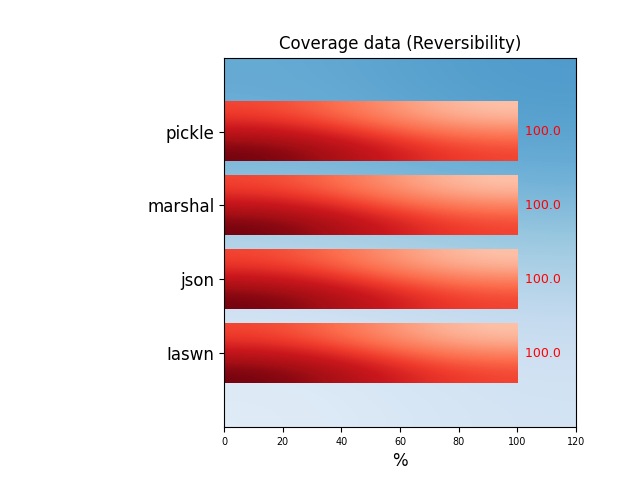
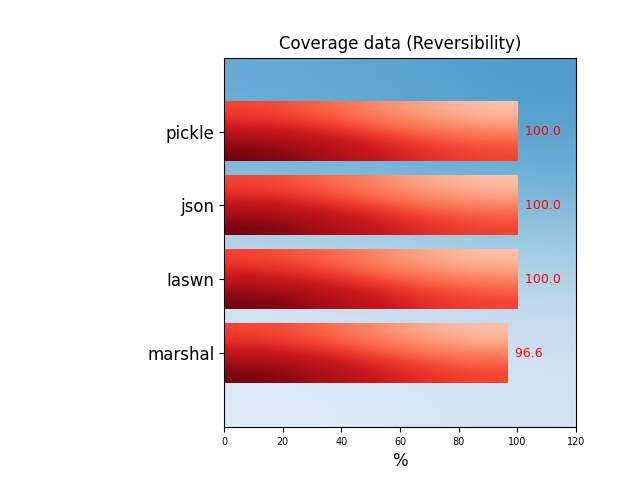
task-390
Fixed issue #54: demonstration reports' main file starts with the graphs.

    * Fixed issue #54: demonstration reports' main file starts with the graphs.
    * updated demonstration reports
    * create a new report shortcut in REPORT_SHORTCUTS, namely
      'create_demonstration_report'
    * updated create_demonstration_reports (now version 3):
      in order to use the new report shortcut
      'create_demonstration_report' and to place graphs at
      the beginning of the report
    * minor improvements in create_demonstration_reports.sh:
      better messages, better version name

modified:   ROADMAP.md
modified:   create_demonstration_reports.sh
modified:   demonstration_reports/1/demonstration_report.md
modified:   demonstration_reports/1/report.txt
modified:   demonstration_reports/1/report3.png
modified:   demonstration_reports/1/report4.png
modified:   demonstration_reports/2/demonstration_report.md
modified:   demonstration_reports/2/report.txt
modified:   demonstration_reports/2/report3.png
modified:   demonstration_reports/2/report4.png
modified:   demonstration_reports/3/demonstration_report.md
modified:   demonstration_reports/3/report.txt
modified:   wisteria/globs.py

diff --git a/wisteria/globs.py b/wisteria/globs.py
@@ -245,6 +245,7 @@ REPORT_SHORTCUTS = {
     "laconic": "C;graphs;",
     "minimal": "C2c;graphs;",
     "none": "",
+    "create_demonstration_report": "graphs;titles;A0;B1b;C1a;C1b;C2a;C2b;C2c",
     }
 
 # value: None or rich.console.Console()

diff --git a/demonstration_reports/2/demonstration_report.md b/demonstration_reports/2/demonstration_report.md
@@ -1,17 +1,21 @@
 ```
+(WARNINGID010) Anomaly: too many absurd values detected in 'mem usage' series;'marshal' x 'str(long)'. 
+(A0) Command Line Arguments
+
+bin/wisteria --cmp="all" --report="create_demonstration_report" --filter="data:oktrans_only" --output="console;reportfile/w=demonstration_reports/2/report.txt" --exportreport="md=demonstration_report.md"
+
 (B1b) Full Details: Serializers
 ┏━━━━━━━━━━━━━━━━━━━━━━━━━━━━━━┳━━━━━━━━━━━━━┳━━━━━━━━━━━━━┳━━━━━━━━━━━━━━━┳━━━━━━━━━━━━━┳━━━━━━━━━━━━━┳━━━━━━━━━━━━━━━━━━┳━━━━━━━━━━━━━━┓
 ┃ Serializer                   ┃ Encod. Ok ? ┃ Σ Encoded   ┃ Σ Encoded     ┃ Decod. Ok ? ┃ Σ Decoded   ┃ Reversibility ?  ┃ Σ memory     ┃
 ┃                              ┃ (Max=29)    ┃ Time        ┃ Str. Length   ┃ (Max=29)    ┃ Time        ┃ (Max=29)         ┃              ┃
 ┃                              ┃             ┃ (seconds)   ┃ (characters)  ┃             ┃ (seconds)   ┃                  ┃              ┃
 ┡━━━━━━━━━━━━━━━━━━━━━━━━━━━━━━╇━━━━━━━━━━━━━╇━━━━━━━━━━━━━╇━━━━━━━━━━━━━━━╇━━━━━━━━━━━━━╇━━━━━━━━━━━━━╇━━━━━━━━━━━━━━━━━━╇━━━━━━━━━━━━━━┩
-│ Iaswn                        │ 29          │ 0.000464    │ 9460          │ 29          │ 0.000510    │ 29 (100.00%)     │ 0 byte       │
+│ Iaswn                        │ 29          │ 0.000402    │ 9460          │ 29          │ 0.000443    │ 29 (100.00%)     │ 0 byte       │
 │                              │ (100.00%)   │             │               │ (100.00%)   │             │                  │              │
-│ json                         │ 29          │ 0.000240    │ 9483          │ 29          │ 0.000210    │ 29 (100.00%)     │ 0 byte       │
+│ json                         │ 29          │ 0.000206    │ 9483          │ 29          │ 0.000190    │ 29 (100.00%)     │ 0 byte       │
 │                              │ (100.00%)   │             │               │ (100.00%)   │             │                  │              │
-│ marshal                      │ 29          │ 0.000052    │ 9399          │ 29          │ 0.000045    │ 29 (100.00%)     │ 0 byte       │
-│                              │ (100.00%)   │             │               │ (100.00%)   │             │                  │              │
-│ pickle                       │ 29          │ 0.000078    │ 9637          │ 29          │ 0.000063    │ 29 (100.00%)     │ 0 byte       │
+│ marshal                      │ 28 (96.55%) │ 0.000037    │ 394           │ 28 (96.55%) │ 0.000036    │ 28 (96.55%)      │ 0 byte       │
+│ pickle                       │ 29          │ 0.000069    │ 9637          │ 29          │ 0.000062    │ 29 (100.00%)     │ 0 byte       │
 │                              │ (100.00%)   │             │               │ (100.00%)   │             │                  │              │
 └──────────────────────────────┴─────────────┴─────────────┴───────────────┴─────────────┴─────────────┴──────────────────┴──────────────┘
 
@@ -23,9 +27,9 @@ int_0xffffffffffffffffffffffffffffffff, int_1, io.string(empty), list, list(+sub
 json: According to the tests carried out on all data, json can handle 29 data objects among 29 (100.00%), namely bool/false, bool/true, demonstration_dataobj, dict(keys/str), dict(keys/str+subdicts), float, 
 int, int_-0xffff, int_-0xffffffff, int_-0xffffffffffffffff, int_-0xffffffffffffffffffffffffffffffff, int_-1, int_0, int_0xffff, int_0xffffffff, int_0xffffffffffffffff, int_0xffffffffffffffffffffffffffffffff,
 int_1, io.string(empty), list, list(+sublists), list(empty), metaclass, none, str, str(empty), str(long), str(non ascii characters) and time(time.time) .
-marshal: According to the tests carried out on all data, marshal can handle 29 data objects among 29 (100.00%), namely bool/false, bool/true, demonstration_dataobj, dict(keys/str), dict(keys/str+subdicts), 
+marshal: According to the tests carried out on all data, marshal can handle 28 data objects among 29 (96.55%), namely bool/false, bool/true, demonstration_dataobj, dict(keys/str), dict(keys/str+subdicts), 
 float, int, int_-0xffff, int_-0xffffffff, int_-0xffffffffffffffff, int_-0xffffffffffffffffffffffffffffffff, int_-1, int_0, int_0xffff, int_0xffffffff, int_0xffffffffffffffff, 
-int_0xffffffffffffffffffffffffffffffff, int_1, io.string(empty), list, list(+sublists), list(empty), metaclass, none, str, str(empty), str(long), str(non ascii characters) and time(time.time) .
+int_0xffffffffffffffffffffffffffffffff, int_1, io.string(empty), list, list(+sublists), list(empty), metaclass, none, str, str(empty), str(non ascii characters) and time(time.time) .
 pickle: According to the tests carried out on all data, pickle can handle 29 data objects among 29 (100.00%), namely bool/false, bool/true, demonstration_dataobj, dict(keys/str), dict(keys/str+subdicts), 
 float, int, int_-0xffff, int_-0xffffffff, int_-0xffffffffffffffff, int_-0xffffffffffffffffffffffffffffffff, int_-1, int_0, int_0xffff, int_0xffffffff, int_0xffffffffffffffff, 
 int_0xffffffffffffffffffffffffffffffff, int_1, io.string(empty), list, list(+sublists), list(empty), metaclass, none, str, str(empty), str(long), str(non ascii characters) and time(time.time) .
@@ -44,10 +48,10 @@ pickle: According to the tests carried out on all data, there's no data object a
 ┃                           ┃ (characters)     ┃                  ┃ (Max=29)         ┃              ┃
 ┡━━━━━━━━━━━━━━━━━━━━━━━━━━━╇━━━━━━━━━━━━━━━━━━╇━━━━━━━━━━━━━━━━━━╇━━━━━━━━━━━━━━━━━━╇━━━━━━━━━━━━━━┩
 │ -                         │ -                │ -                │ -                │              │
-│ Iaswn                     │ 9460             │ 0.000974         │ 29 (100.00%)     │ 0 byte       │
-│ json                      │ 9483             │ 0.000450         │ 29 (100.00%)     │ 0 byte       │
-│ marshal                   │ 9399             │ 0.000097         │ 29 (100.00%)     │ 0 byte       │
-│ pickle                    │ 9637             │ 0.000141         │ 29 (100.00%)     │ 0 byte       │
+│ Iaswn                     │ 9460             │ 0.000845         │ 29 (100.00%)     │ 0 byte       │
+│ json                      │ 9483             │ 0.000396         │ 29 (100.00%)     │ 0 byte       │
+│ marshal                   │ 394              │ 0.000074         │ 28 (96.55%)      │ 0 byte       │
+│ pickle                    │ 9637             │ 0.000131         │ 29 (100.00%)     │ 0 byte       │
 └───────────────────────────┴──────────────────┴──────────────────┴──────────────────┴──────────────┘
 
 (C2b) Conclusion: Overall Score Based on 4 Comparisons Points (Σ Encoded Str. Length/Σ Encod.+Decod. Time/Coverage Rate/Σ memory)
@@ -55,17 +59,17 @@ pickle: According to the tests carried out on all data, there's no data object a
 ┃ Serializer                ┃ Overall Score ┃
 ┡━━━━━━━━━━━━━━━━━━━━━━━━━━━╇━━━━━━━━━━━━━━━┩
 │ -                         │ -             │
-│ Iaswn                     │ 12            │
-│ json                      │ 10            │
-│ marshal                   │ 12            │
+│ Iaswn                     │ 11            │
+│ json                      │ 9             │
+│ marshal                   │ 14            │
 │ pickle                    │ 6             │
 └───────────────────────────┴───────────────┘
 
 (C2c) Conclusion
-According to the tests carried out on all data, marshal is the quickest to encode/decode, marshal produces the shortest strings, all serializers are equal when it comes to data coverage and all serializers 
-are equal when it comes to memory consumption. Iaswn and marshal are ranked #1 among 4 serializers, according to the overall scores (¹).
-On the contrary, Iaswn is the slowest to encode/decode, pickle produces the longest strings, all serializers are equal when it comes to data coverage and all serializers are equal when it comes to memory 
-consumption. pickle is ranked #4 among 4 serializers, according to the overall scores (¹).
+According to the tests carried out on all data, marshal is the quickest to encode/decode, marshal produces the shortest strings, marshal has the best coverage and all serializers are equal when it comes to 
+memory consumption. marshal is ranked #1 among 4 serializers, according to the overall scores (¹).
+On the contrary, Iaswn is the slowest to encode/decode, pickle produces the longest strings, pickle - ex aequo with Iaswn and json - has the worst coverage and all serializers are equal when it comes to 
+memory consumption. pickle is ranked #4 among 4 serializers, according to the overall scores (¹).
 
 - notes -
 [¹] a rank based on 4 comparisons points: Σ encoded str./Σ encod.+decod. time/Coverage Rate/Σ memory

diff --git a/demonstration_reports/1/demonstration_report.md b/demonstration_reports/1/demonstration_report.md
@@ -1,17 +1,21 @@
 ```
+(WARNINGID010) Anomaly: too many absurd values detected in 'mem usage' series;'marshal' x 'str(long)'. 
+(A0) Command Line Arguments
+
+bin/wisteria --cmp="pickle" --report="create_demonstration_report" --filter="data:oktrans_only" --output="console;reportfile/w=demonstration_reports/1/report.txt" --exportreport="md=demonstration_report.md"
+
 (B1b) Full Details: Serializers
 ┏━━━━━━━━━━━━━━━━━━━━━━━━━━━━━━┳━━━━━━━━━━━━━┳━━━━━━━━━━━━━┳━━━━━━━━━━━━━━━┳━━━━━━━━━━━━━┳━━━━━━━━━━━━━┳━━━━━━━━━━━━━━━━━━┳━━━━━━━━━━━━━━┓
 ┃ Serializer                   ┃ Encod. Ok ? ┃ Σ Encoded   ┃ Σ Encoded     ┃ Decod. Ok ? ┃ Σ Decoded   ┃ Reversibility ?  ┃ Σ memory     ┃
 ┃                              ┃ (Max=29)    ┃ Time        ┃ Str. Length   ┃ (Max=29)    ┃ Time        ┃ (Max=29)         ┃              ┃
 ┃                              ┃             ┃ (seconds)   ┃ (characters)  ┃             ┃ (seconds)   ┃                  ┃              ┃
 ┡━━━━━━━━━━━━━━━━━━━━━━━━━━━━━━╇━━━━━━━━━━━━━╇━━━━━━━━━━━━━╇━━━━━━━━━━━━━━━╇━━━━━━━━━━━━━╇━━━━━━━━━━━━━╇━━━━━━━━━━━━━━━━━━╇━━━━━━━━━━━━━━┩
-│ Iaswn                        │ 29          │ 0.000458    │ 9460          │ 29          │ 0.000470    │ 29 (100.00%)     │ 0 byte       │
+│ Iaswn                        │ 29          │ 0.000442    │ 9460          │ 29          │ 0.000472    │ 29 (100.00%)     │ 0 byte       │
 │                              │ (100.00%)   │             │               │ (100.00%)   │             │                  │              │
-│ json                         │ 29          │ 0.000238    │ 9483          │ 29          │ 0.000256    │ 29 (100.00%)     │ 0 byte       │
+│ json                         │ 29          │ 0.000220    │ 9483          │ 29          │ 0.000193    │ 29 (100.00%)     │ 0 byte       │
 │                              │ (100.00%)   │             │               │ (100.00%)   │             │                  │              │
-│ marshal                      │ 29          │ 0.000047    │ 9399          │ 29          │ 0.000042    │ 29 (100.00%)     │ 0 byte       │
-│                              │ (100.00%)   │             │               │ (100.00%)   │             │                  │              │
-│ pickle                       │ 29          │ 0.000078    │ 9637          │ 29          │ 0.000066    │ 29 (100.00%)     │ 0 byte       │
+│ marshal                      │ 28 (96.55%) │ 0.000037    │ 394           │ 28 (96.55%) │ 0.000036    │ 28 (96.55%)      │ 0 byte       │
+│ pickle                       │ 29          │ 0.000072    │ 9637          │ 29          │ 0.000062    │ 29 (100.00%)     │ 0 byte       │
 │                              │ (100.00%)   │             │               │ (100.00%)   │             │                  │              │
 └──────────────────────────────┴─────────────┴─────────────┴───────────────┴─────────────┴─────────────┴──────────────────┴──────────────┘
 
@@ -28,9 +32,9 @@ int_0xffffffffffffffffffffffffffffffff, int_1, io.string(empty), list, list(+sub
 json: According to the tests carried out on all data, json can handle 29 data objects among 29 (100.00%), namely bool/false, bool/true, demonstration_dataobj, dict(keys/str), dict(keys/str+subdicts), float, 
 int, int_-0xffff, int_-0xffffffff, int_-0xffffffffffffffff, int_-0xffffffffffffffffffffffffffffffff, int_-1, int_0, int_0xffff, int_0xffffffff, int_0xffffffffffffffff, int_0xffffffffffffffffffffffffffffffff,
 int_1, io.string(empty), list, list(+sublists), list(empty), metaclass, none, str, str(empty), str(long), str(non ascii characters) and time(time.time) .
-marshal: According to the tests carried out on all data, marshal can handle 29 data objects among 29 (100.00%), namely bool/false, bool/true, demonstration_dataobj, dict(keys/str), dict(keys/str+subdicts), 
+marshal: According to the tests carried out on all data, marshal can handle 28 data objects among 29 (96.55%), namely bool/false, bool/true, demonstration_dataobj, dict(keys/str), dict(keys/str+subdicts), 
 float, int, int_-0xffff, int_-0xffffffff, int_-0xffffffffffffffff, int_-0xffffffffffffffffffffffffffffffff, int_-1, int_0, int_0xffff, int_0xffffffff, int_0xffffffffffffffff, 
-int_0xffffffffffffffffffffffffffffffff, int_1, io.string(empty), list, list(+sublists), list(empty), metaclass, none, str, str(empty), str(long), str(non ascii characters) and time(time.time) .
+int_0xffffffffffffffffffffffffffffffff, int_1, io.string(empty), list, list(+sublists), list(empty), metaclass, none, str, str(empty), str(non ascii characters) and time(time.time) .
 
 (C1b) Conclusion: Data Objects NOT Handled by the Serializer(s)
 
@@ -47,11 +51,11 @@ marshal: According to the tests carried out on all data, there's no data object 
 ┃                           ┃ Length           ┃ Time (seconds)   ┃ (Coverage Rate)  ┃              ┃
 ┃                           ┃ (characters)     ┃                  ┃ (Max=29)         ┃              ┃
 ┡━━━━━━━━━━━━━━━━━━━━━━━━━━━╇━━━━━━━━━━━━━━━━━━╇━━━━━━━━━━━━━━━━━━╇━━━━━━━━━━━━━━━━━━╇━━━━━━━━━━━━━━┩
-│ pickle                    │ 9637             │ 0.000144         │ 29 (100.00%)     │ 0 byte       │
+│ pickle                    │ 9637             │ 0.000134         │ 29 (100.00%)     │ 0 byte       │
 │ -                         │ -                │ -                │ -                │              │
-│ Iaswn                     │ 9460             │ 0.000928         │ 29 (100.00%)     │ 0 byte       │
-│ json                      │ 9483             │ 0.000494         │ 29 (100.00%)     │ 0 byte       │
-│ marshal                   │ 9399             │ 0.000089         │ 29 (100.00%)     │ 0 byte       │
+│ Iaswn                     │ 9460             │ 0.000913         │ 29 (100.00%)     │ 0 byte       │
+│ json                      │ 9483             │ 0.000413         │ 29 (100.00%)     │ 0 byte       │
+│ marshal                   │ 394              │ 0.000074         │ 28 (96.55%)      │ 0 byte       │
 └───────────────────────────┴──────────────────┴──────────────────┴──────────────────┴──────────────┘
 
 (C2b) Conclusion: Overall Score Based on 4 Comparisons Points (Σ Encoded Str. Length/Σ Encod.+Decod. Time/Coverage Rate/Σ memory)
@@ -60,15 +64,16 @@ marshal: According to the tests carried out on all data, there's no data object 
 ┡━━━━━━━━━━━━━━━━━━━━━━━━━━━╇━━━━━━━━━━━━━━━┩
 │ pickle                    │ 6             │
 │ -                         │ -             │
-│ Iaswn                     │ 12            │
-│ json                      │ 10            │
-│ marshal                   │ 12            │
+│ Iaswn                     │ 11            │
+│ json                      │ 9             │
+│ marshal                   │ 14            │
 └───────────────────────────┴───────────────┘
 
 (C2c) Conclusion
 According to the tests carried out on all data, pickle is ranked #4 among 4 serializers (¹). There's no serializer that produces longer strings than pickle and there are 3 serializers, namely marshal, Iaswn 
-and json, that produces shorter strings than pickle. There are 2 serializers, namely json and Iaswn, that are slower than pickle and only marshal is faster than pickle. All serializers are equal when it 
-comes to data coverage. All serializers are equal when it comes to memory consumption. 
+and json, that produces shorter strings than pickle. There are 2 serializers, namely json and Iaswn, that are slower than pickle and only marshal is faster than pickle. There's no serializer that is worse 
+than pickle when it comes to data coverage.and there are 3 serializers, namely marshal, Iaswn and json, are better than pickle.when it comes to data coverage. All serializers are equal when it comes to 
+memory consumption. 
 
 - notes -
 [¹] a rank based on 4 comparisons points: Σ jsonstr.len./Σ encod.+decod. time/Coverage Rate/Σ memory

diff --git a/ROADMAP.md b/ROADMAP.md
@@ -81,6 +81,21 @@ What's next ?
 - les fichiers xyz__ doivent avoir un nom et être placés dans le répertoire adéquat
 - des images ont un texte en ordonnée illisible
 
+[DONE] task-390
+
+Fixed issue #54: demonstration reports' main file starts with the graphs.
+
+    * Fixed issue #54: demonstration reports' main file starts with the graphs.
+    * updated demonstration reports
+    * create a new report shortcut in REPORT_SHORTCUTS, namely
+      'create_demonstration_report'
+    * updated create_demonstration_reports (now version 3):
+      in order to use the new report shortcut
+      'create_demonstration_report' and to place graphs at
+      the beginning of the report
+    * minor improvements in create_demonstration_reports.sh:
+      better messages, better version name
+
 [DONE] task-389
 
 Fixed issue #53: added A0 report section.

diff --git a/demonstration_reports/3/demonstration_report.md b/demonstration_reports/3/demonstration_report.md
@@ -1,4 +1,8 @@
 ```
+(A0) Command Line Arguments
+
+bin/wisteria --cfgfile="demonstration_reports/wisteria2.ini" --cmp="all(ini)" --report="titles;A0;B3" --output="reportfile/w=demonstration_reports/3/report.txt" --exportreport="md=demonstration_report.md"
+
 (B3) Encoded String for all Data Objects, for all Serializers
 o  'iaswn' x 'bool/false' [0x7015b]
    o  type: str
